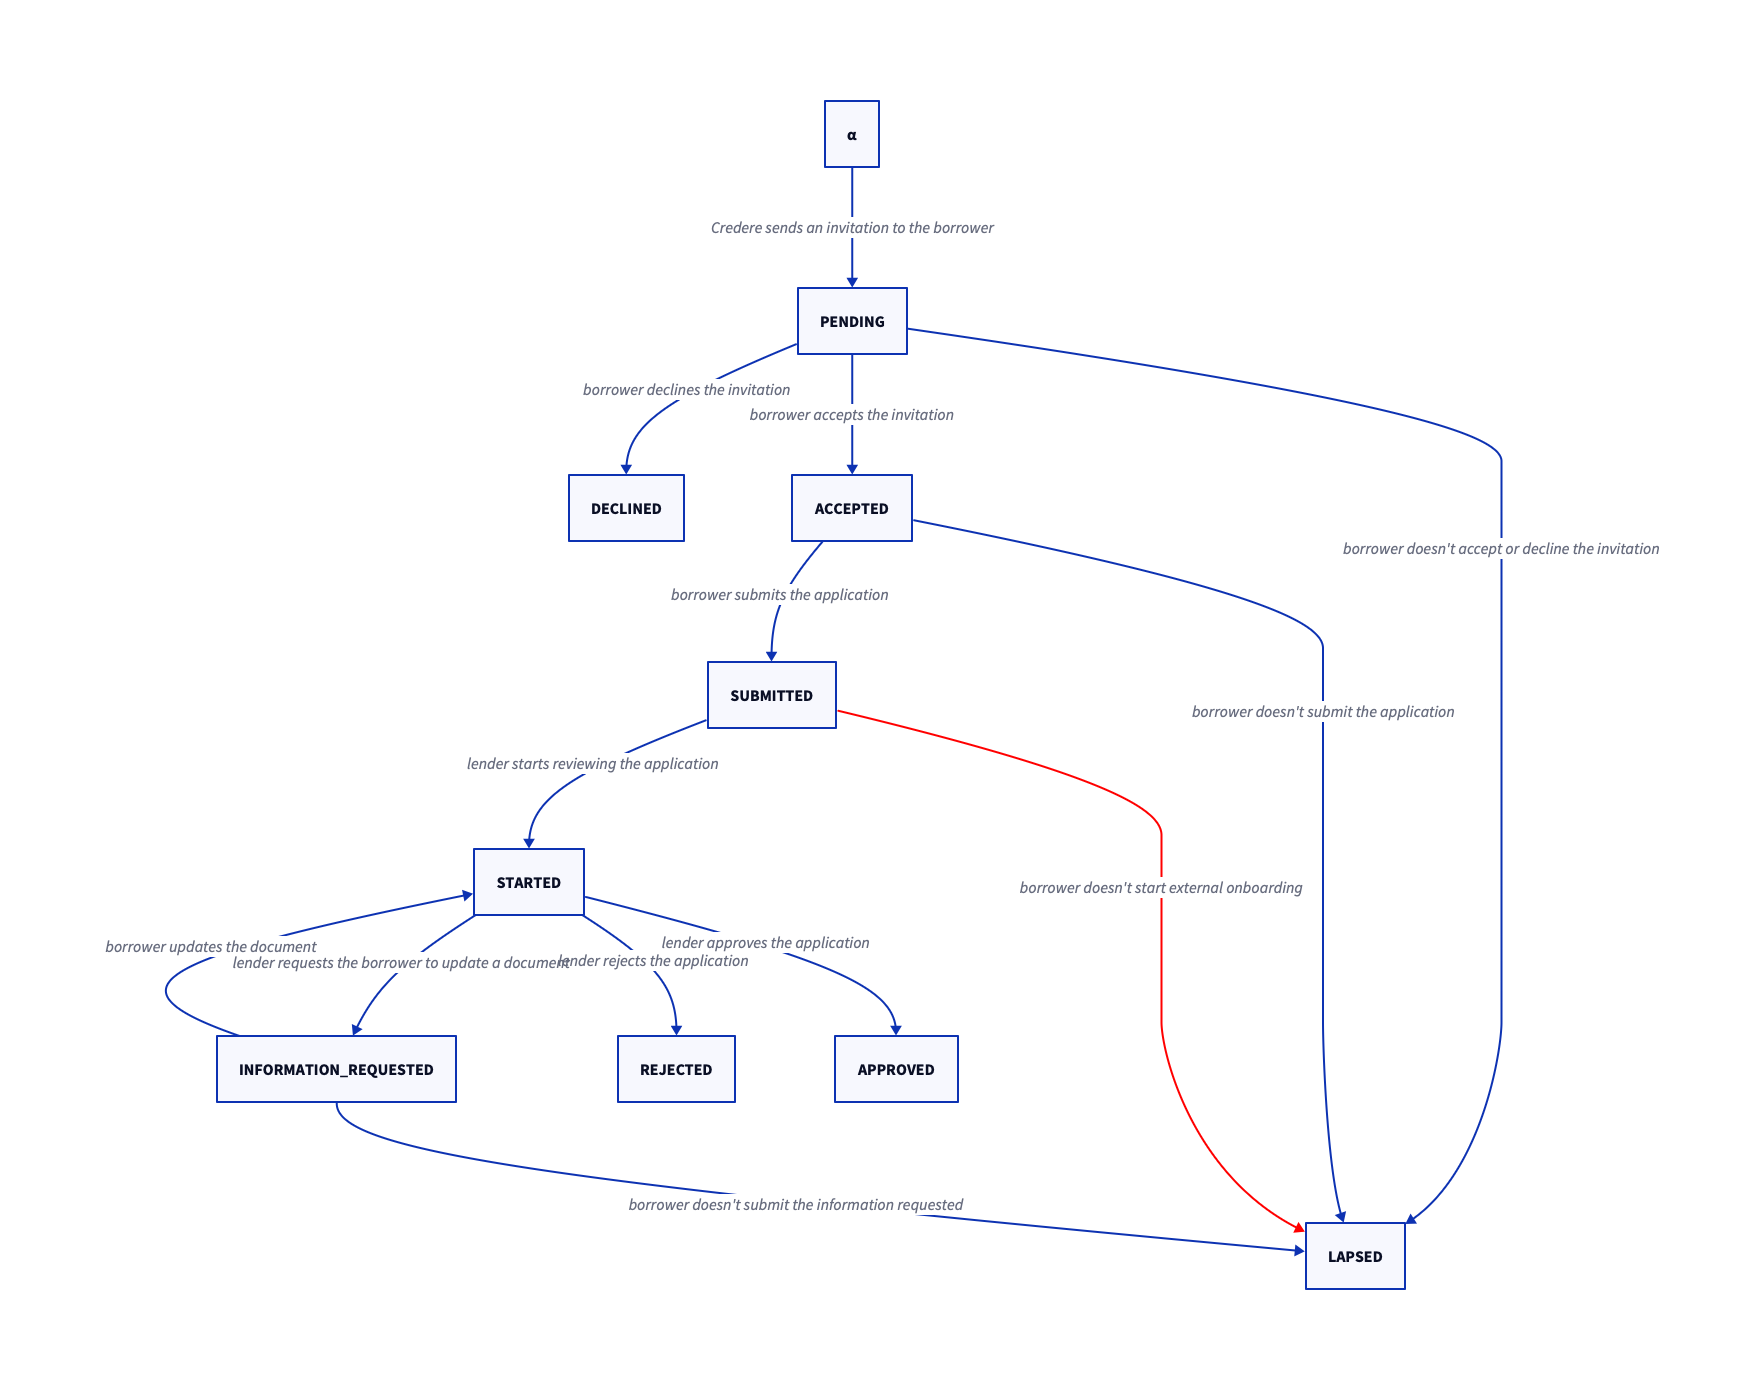
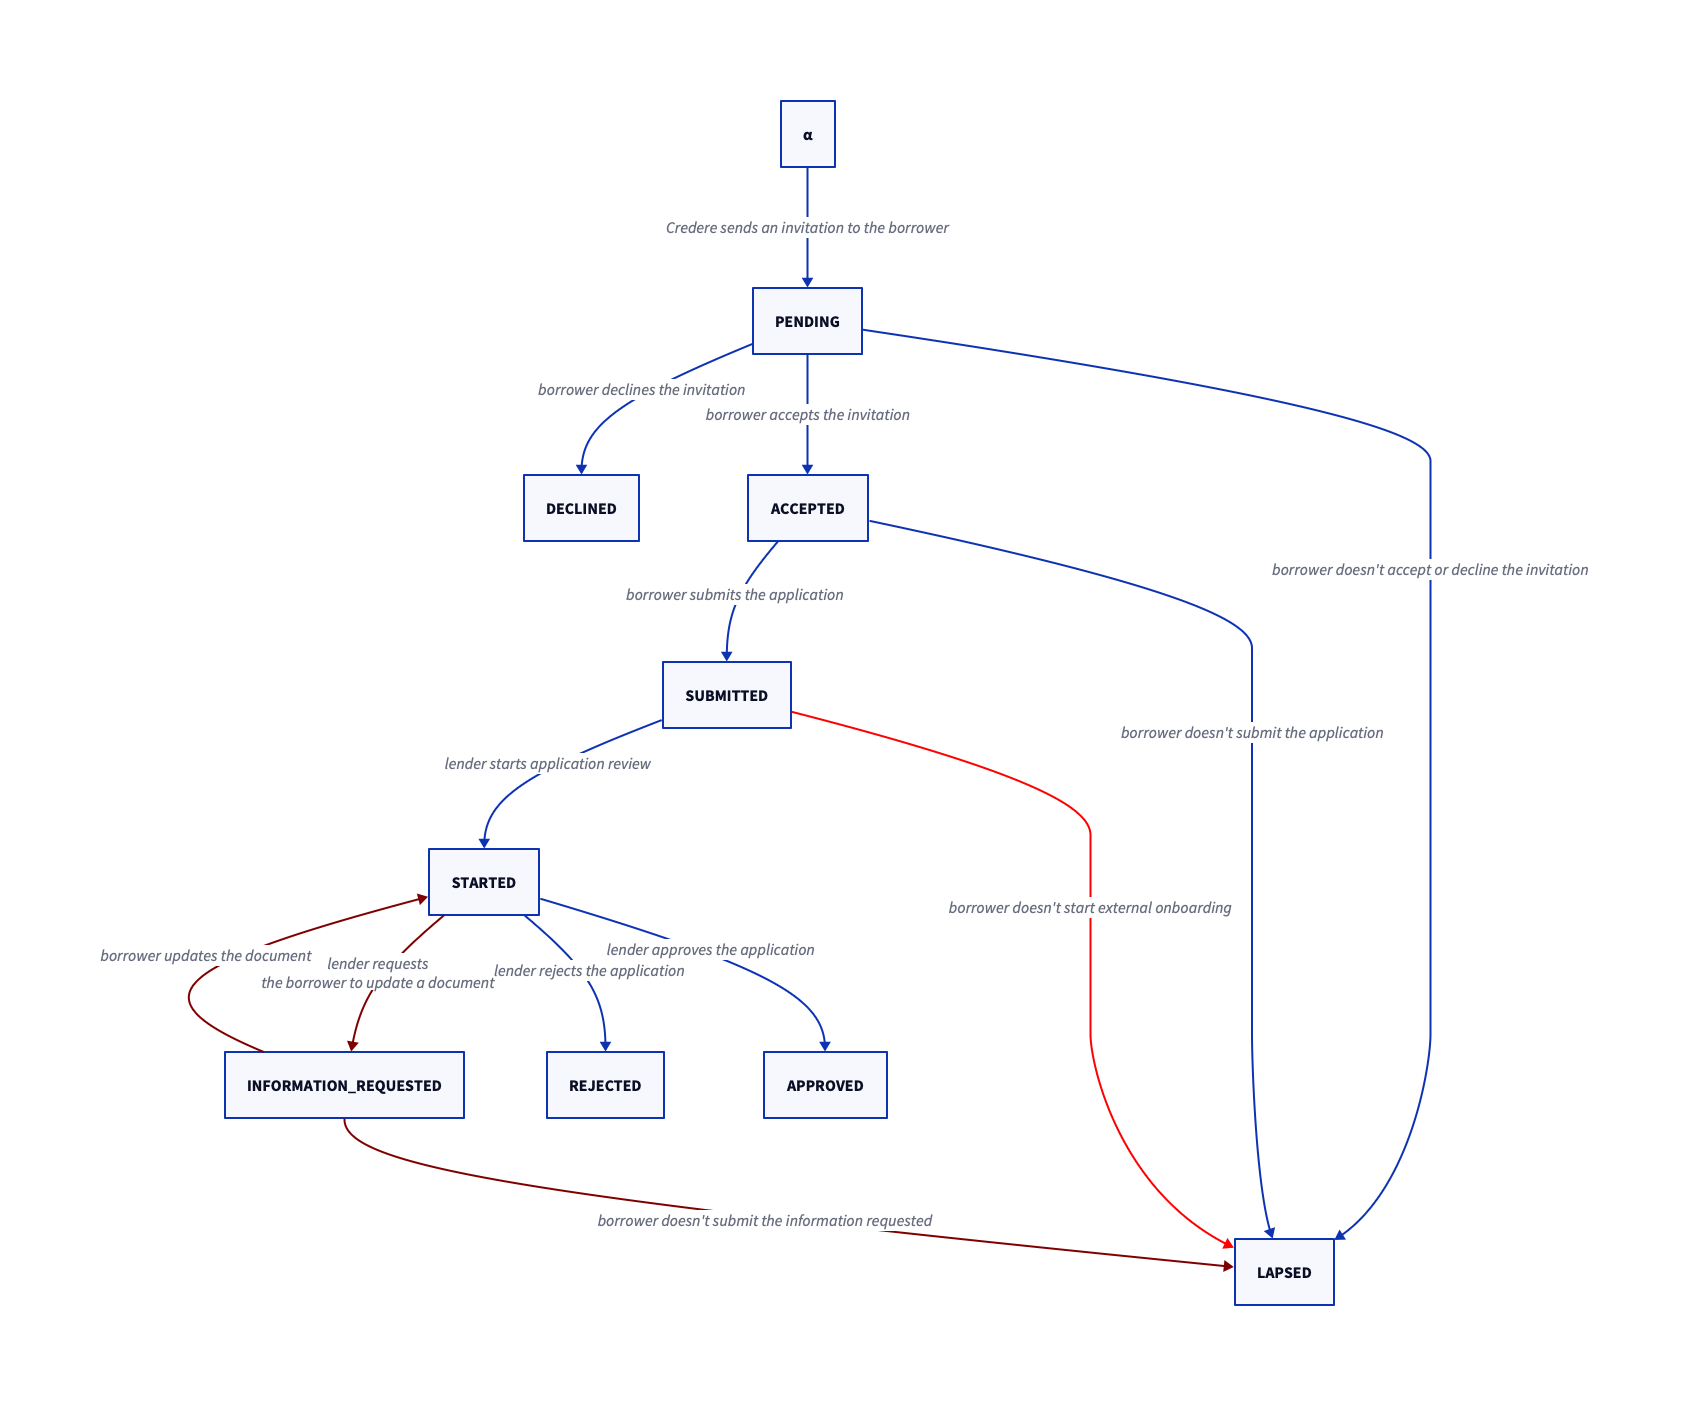
docs: Use different color for native onboarding

diff --git a/docs/contributing/index.rst b/docs/contributing/index.rst
@@ -266,21 +266,23 @@ Application status transitions
 
 ..
    https://play.d2lang.com
+   https://pincel.app/tools/svg-to-png
    α -> PENDING: Credere sends an invitation to the borrower
    PENDING -> LAPSED: borrower doesn't accept or decline the invitation
    PENDING -> DECLINED: borrower declines the invitation
    PENDING -> ACCEPTED: borrower accepts the invitation
    ACCEPTED -> LAPSED: borrower doesn't submit the application
    ACCEPTED -> SUBMITTED: borrower submits the application
-   SUBMITTED -> LAPSED: borrower doesn't start external onboarding {class: onboarding}
+   SUBMITTED -> LAPSED: borrower doesn't start external onboarding {class: external}
    SUBMITTED -> STARTED: lender starts application review
-   STARTED -> INFORMATION_REQUESTED: lender requests the borrower to update a document
+   STARTED -> INFORMATION_REQUESTED: lender requests\nthe borrower to update a document {class: native}
    STARTED -> REJECTED: lender rejects the application
    STARTED -> APPROVED: lender approves the application
-   INFORMATION_REQUESTED -> LAPSED: borrower doesn't submit the information requested
-   INFORMATION_REQUESTED -> STARTED: borrower updates the document
+   INFORMATION_REQUESTED -> LAPSED: borrower doesn't submit the information requested {class: native}
+   INFORMATION_REQUESTED -> STARTED: borrower updates the document {class: native}
    classes: {
-     onboarding.style.stroke: red
+     native.style.stroke: maroon
+     external.style.stroke: red
    }
 
 .. _erd:
